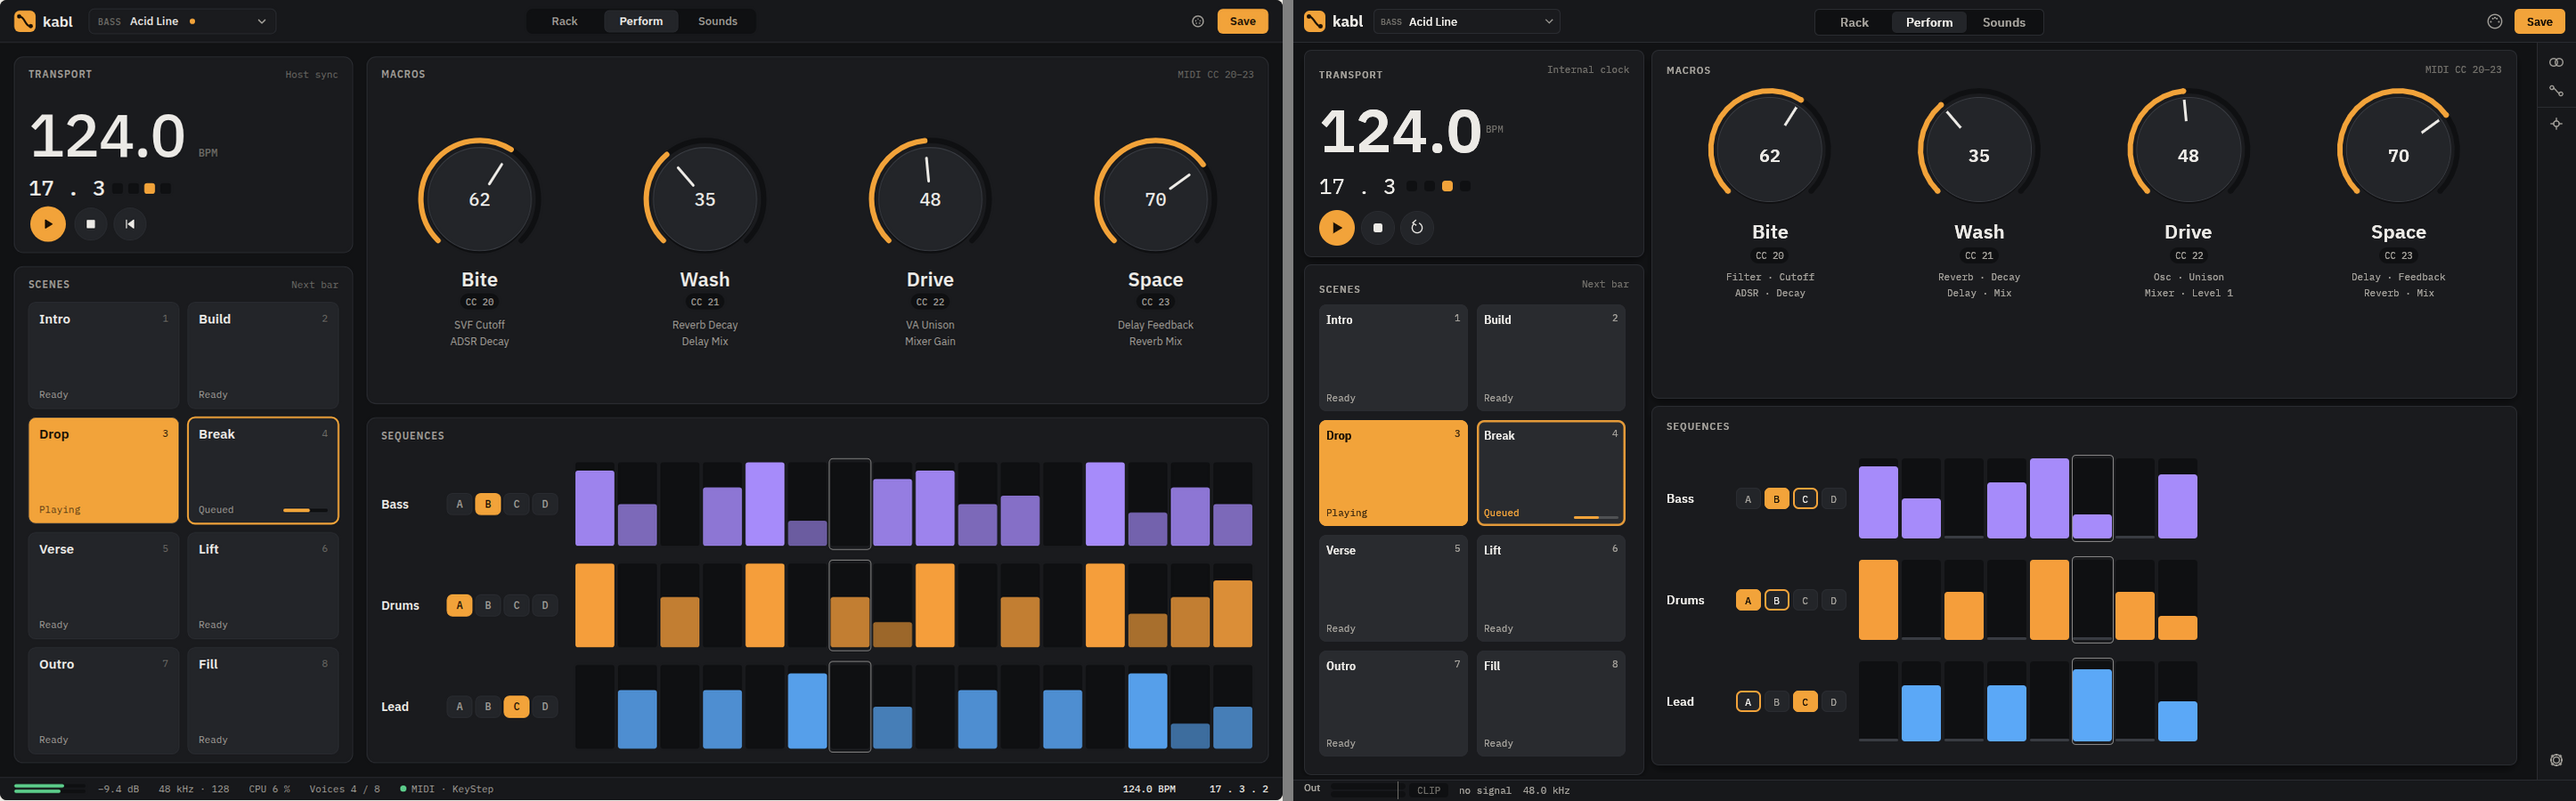
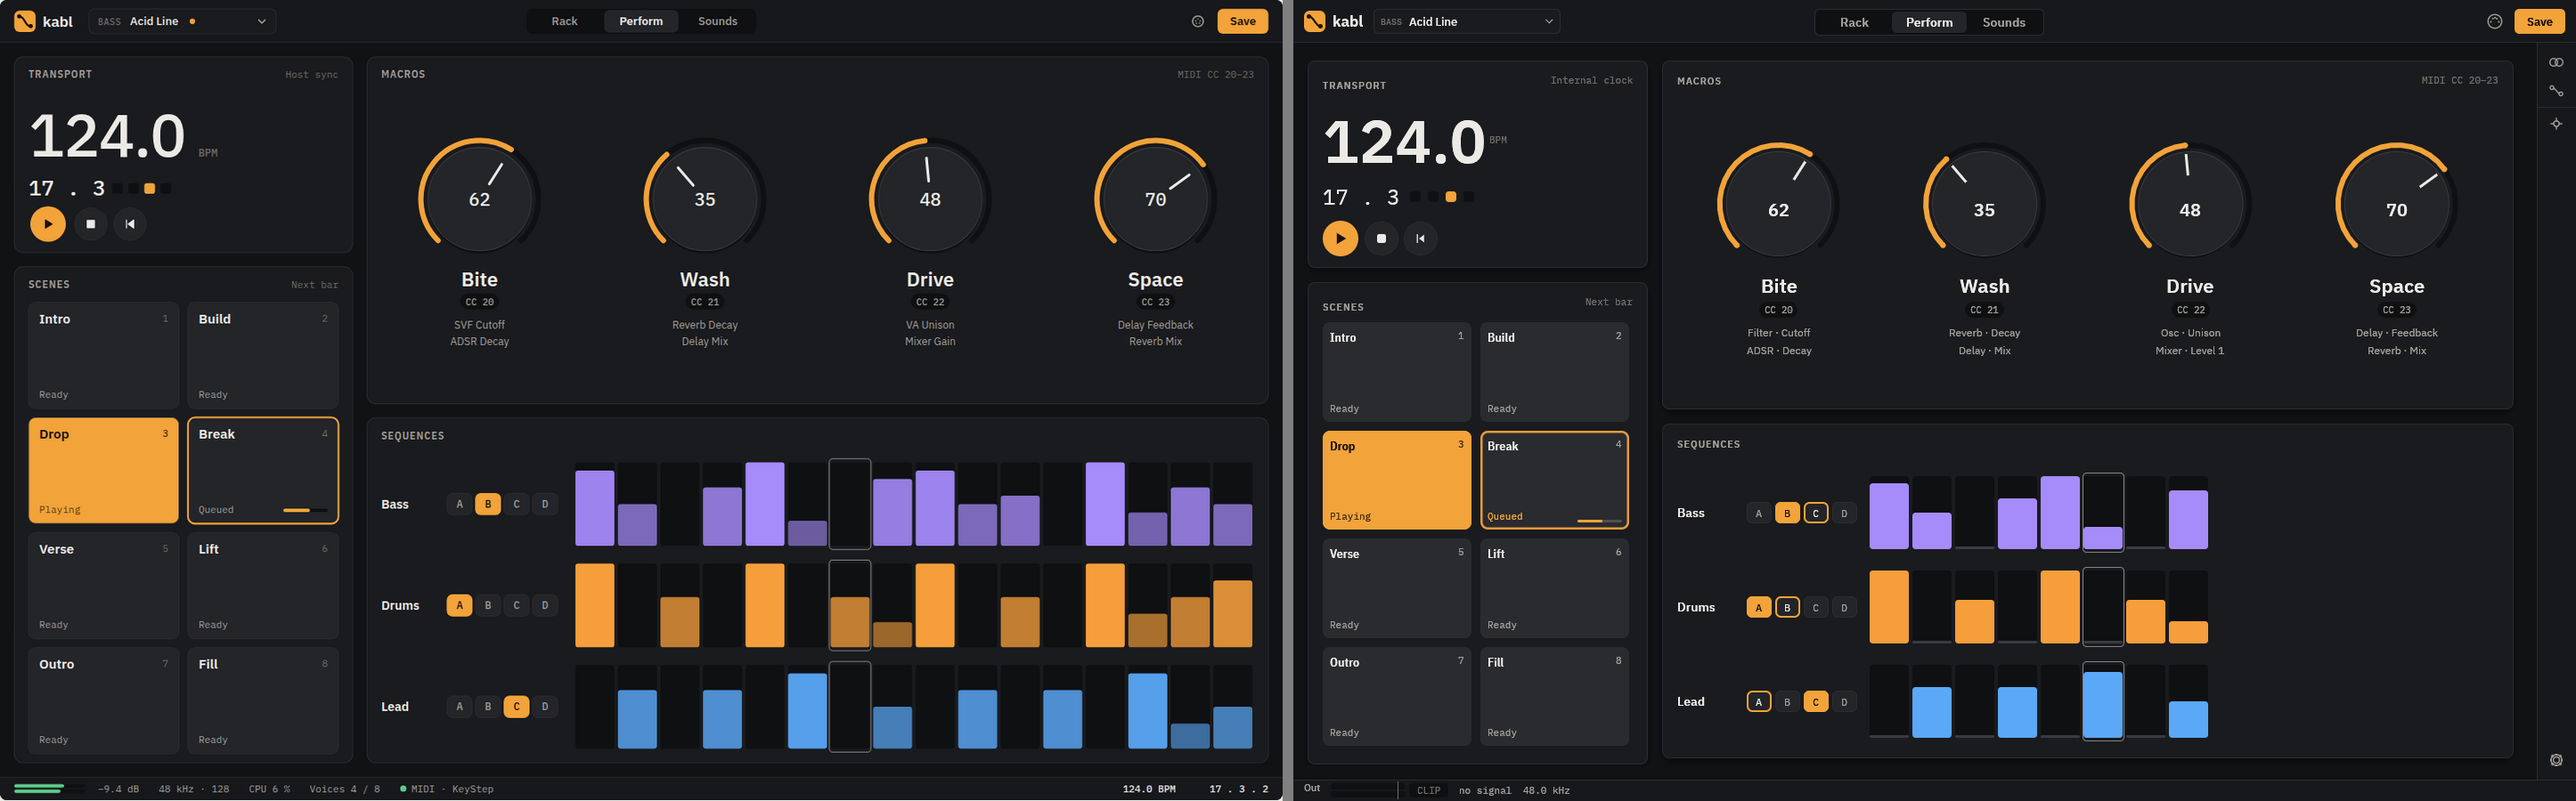
Perform: mockup spacing, knob row, sans mappings, skip-back restart
The Perform view sits 16 from the window edges with 16 between cards, as the
mockup's performScreen. Macro knob centres sit at 160/390 of the card height,
the mapping lines are sans 12, and the Restart icon is the mockup's skip-back.

diff --git a/crates/ui/src/perform_view.rs b/crates/ui/src/perform_view.rs
@@ -110,7 +110,8 @@ pub fn panel(editor: &mut PatchEditor, ui_state: &mut UiState, ui: &mut egui::Ui
         }
         v
     };
-    let g = st.sp(2);
+    // Card gap, as the mockup's `performScreen` (g = 16).
+    let g = st.sp(4);
     // Half a pixel short, so a row that sums to the full width does not wrap on rounding.
     let avail = ui.available_width() - 14.0 - 0.5;
     // A little under, so the last row clears the status bar and a scrollbar gutter.
@@ -1246,7 +1247,10 @@ fn macros_card(
                     st.roles.text3,
                 );
             }
-            ui.add_space(st.sp(1));
+            // The mockup puts the knob centres 160 below the top of its 390 px card.
+            let top = ui.max_rect().top() - f.inner_margin.top as f32;
+            let want = top + size.y * 160.0 / 390.0 - knob / 2.0;
+            ui.add_space((want - ui.cursor().top()).max(st.sp(1)));
             ui.horizontal_top(|ui| {
                 ui.spacing_mut().item_spacing.x = st.sp(1);
                 for &(i, pin) in pins {
@@ -1255,6 +1259,24 @@ fn macros_card(
             });
         });
     });
+}
+
+/// One line of a macro's destinations: sans 12, as in the mockup's macro card.
+fn dest_line(ui: &mut egui::Ui, st: &Style, tone: Tone, text: String) -> egui::Response {
+    let col = if tone == Tone::Text3 {
+        st.roles.text3
+    } else {
+        st.roles.text2
+    };
+    ui.add(
+        egui::Label::new(
+            RichText::new(text)
+                .font(egui::FontId::new(12.0, crate::style::Font::Sans.family(st.fonts_ready)))
+                .color(col),
+        )
+        .truncate()
+        .selectable(false),
+    )
 }
 
 /// The CC chip of a macro: the mapping (or "Learn") on a pill; click to learn another control.
@@ -1455,12 +1477,12 @@ fn macro_tile(
                     } else {
                         format!("{} +{}", moves[0], moves.len() - 1)
                     };
-                    kit::label_truncated(ui, st, Role::Caption, tone, t).tip(st, &tip);
+                    dest_line(ui, st, tone, t).tip(st, &tip);
                 } else {
                     // One destination per line, two at most; the rest as "+n more".
                     let shown = if moves.len() > 2 { 1 } else { moves.len() };
                     for m in &moves[..shown] {
-                        kit::label_truncated(ui, st, Role::Caption, tone, m.clone()).tip(st, &tip);
+                        dest_line(ui, st, tone, m.clone()).tip(st, &tip);
                     }
                     if moves.len() > shown {
                         kit::label(

diff --git a/crates/ui/src/kit/icons.rs b/crates/ui/src/kit/icons.rs
@@ -54,15 +54,6 @@ pub enum Ic {
     External,
 }
 
-fn arc(c: Pos2, r: f32, a0: f32, a1: f32) -> Vec<Pos2> {
-    (0..=12)
-        .map(|i| {
-            let a = a0 + (a1 - a0) * i as f32 / 12.0;
-            c + vec2(a.cos(), a.sin()) * r
-        })
-        .collect()
-}
-
 pub fn icon(p: &Painter, ic: Ic, c: Pos2, size: f32, col: Color32) {
     let u = size / 16.0;
     let st = Stroke::new((1.4 * u).max(1.2), col);
@@ -79,10 +70,12 @@ pub fn icon(p: &Painter, ic: Ic, c: Pos2, size: f32, col: Color32) {
             ));
         }
         Ic::Restart => {
-            p.add(Shape::line(arc(c, 6.0 * u, -PI * 0.35, PI * 1.25), st));
-            p.add(Shape::line(
-                vec![q(-1.8, -9.0), q(-5.2, -6.0), q(-1.4, -3.2)],
-                st,
+            // Back to the start, as the mockup's `restart` (M4 3.5V12.5M12 3.5L6 8L12 12.5Z).
+            line(&[(-4.0, -4.5), (-4.0, 4.5)]);
+            p.add(Shape::convex_polygon(
+                vec![q(4.0, -4.5), q(-2.0, 0.0), q(4.0, 4.5)],
+                col,
+                PathStroke::NONE,
             ));
         }
         Ic::Stop => {

diff --git a/crates/ui/src/lib.rs b/crates/ui/src/lib.rs
@@ -971,8 +971,9 @@ pub fn show_with(
     }
 
     if perform_full {
+        // The Perform view's cards sit 16 from the window edges (mockup `performScreen`).
         egui::CentralPanel::default()
-            .frame(kit::page_frame(&st))
+            .frame(kit::page_frame(&st).inner_margin(egui::Margin::same(16)))
             .show(ui, |ui| perform_view::panel(editor, ui_state, ui));
     } else {
         egui::CentralPanel::default()
